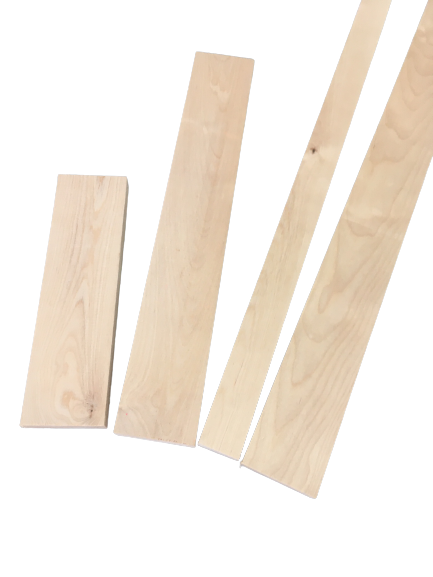
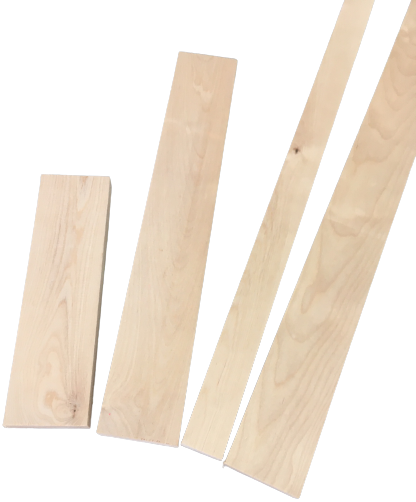
fixed image sizing

diff --git a/utils/data/products.ts b/utils/data/products.ts
@@ -14,7 +14,7 @@ export const products = [
     mainPicture: '/assets/images/wall_panel_2.png',
     pictures: [
       '/assets/images/wall_panel_2.png',
-      '/assets/images/wallpanel1.jpeg',
+      '/assets/images/wallpanel1.jpg',
       '/assets/images/wallpanel3.jpeg',
     ],
     description: `Wall veneer panels will get an interior that's reliable, effortless, and unique, it offers design attributes with optimal fire protection, sound absorption and sound dispersion.`,
@@ -34,7 +34,7 @@ export const products = [
     mainPicture: '/assets/images/cabinet_parts-removebg-preview.png',
     pictures: [
       '/assets/images/cabinet_parts-removebg-preview.png',
-      '/assets/images/cabinetdoor.jpeg',
+      '/assets/images/cabinetdoor.jpg',
     ],
     description: `Kitchen cabinet making will include: Taking customer orders and agreeing on the specifications. Reviewing drawings and choosing appropriate materials, such as the correct type of timber, veneer or synthetic board. Cutting and joining wood to make parts according to the plans.`,
   },

diff --git a/pages/product/[product].tsx b/pages/product/[product].tsx
@@ -1,5 +1,7 @@
 import React, { useEffect, useState } from 'react';
 import { useRouter } from 'next/router';
+import Head from 'next/head';
+
 import ProductView from '@/components/ProductView';
 import OtherProducts from '@/components/OtherProducts';
 
@@ -38,6 +40,9 @@ const Product = () => {
 
   return (
     <main>
+      <Head>
+        <title>{`Keirin Enterprises - ${productName}`}</title>
+      </Head>
       {currentProduct && (
         <ProductView
           productTitle={productName}

diff --git a/styles/Card.module.scss b/styles/Card.module.scss
@@ -41,8 +41,8 @@
   }
 
   &__picture {
-    width: 85%;
-    height: 85%;
+    width: 65%;
+    height: 65%;
     object-fit: contain;
     object-position: 50% 50%;
   }
